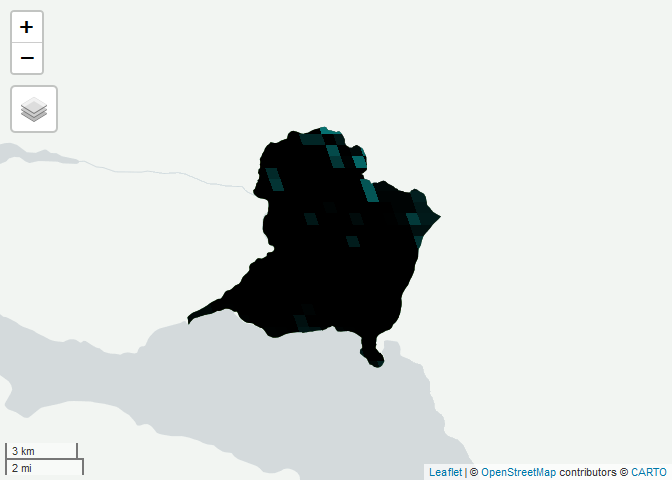
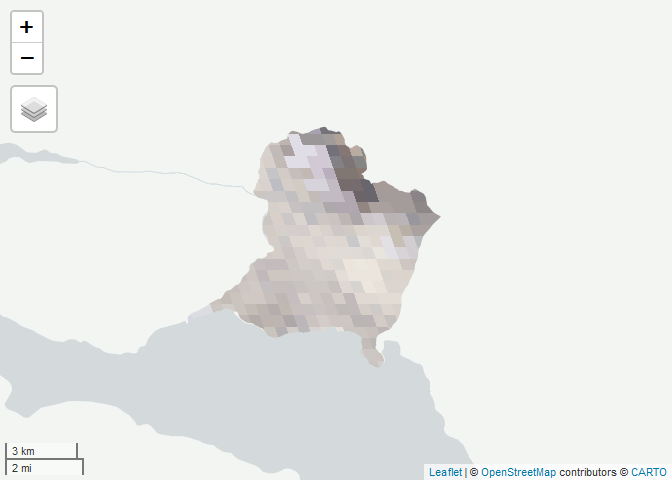
Split interactive plot into two subplots for RGB and NDSI.

Changed region(s): [[0.2812, 0.25, 0.6562, 0.7812]]

diff --git a/R-Markdown/R-markdown_test.md b/R-Markdown/R-markdown_test.md
@@ -274,15 +274,20 @@ of NULL or NA in QGIS layer attribute table)
                                list('B4'=image$select('sur_refl_b04'),
                                     'B2'=image$select('sur_refl_b02')))
 
-  #Plot all image Bands
+  #Plot RGB image
    Map$setCenter(coordinates_point[1], coordinates_point[2], 10)
-   Map$addLayer(image,list(bands=c("sur_refl_b01", "sur_refl_b04", "sur_refl_b03"), min=100, max=8000, gamma=c(1.9, 1.7, 1.7)), 'TRUE COLOR')+
-   Map$addLayer(ndsi_MODIS,list(min=-1, max=1.5, palette=c('black', '0dffff', '0524ff', 'ffffff')), 'NDSI')+
-   Map$addLayer(ndvi_MODIS,list(min=-1, max=1, palette=c('#FF0000','#00FF00')), 'NDVI')+
-   Map$addLayer(ndwi_MODIS,list(min=0, max=1, palette=c('000000', '0dffff', '0524ff', 'ffffff')), 'NDWI')
+   Map$addLayer(image,list(bands=c("sur_refl_b01", "sur_refl_b04", "sur_refl_b03"), min=100, max=8000, gamma=c(1.9, 1.7, 1.7)), 'TRUE COLOR')
 ```
 
 ![](R-markdown_test_files/figure-gfm/read%20shapefile%20and%20plot%20initial%20data-1.png)<!-- -->
+
+``` r
+  #Plot NDSI image
+   Map$setCenter(coordinates_point[1], coordinates_point[2], 10)
+   Map$addLayer(ndsi_MODIS,list(min=-1, max=1.5, palette=c('black', '0dffff', '0524ff', 'ffffff')), 'NDSI')
+```
+
+![](R-markdown_test_files/figure-gfm/read%20shapefile%20and%20plot%20initial%20data-2.png)<!-- -->
 
 ### (9) Add NDSI, NDVI, NDMI and NDWI to the clipped image collection
 
